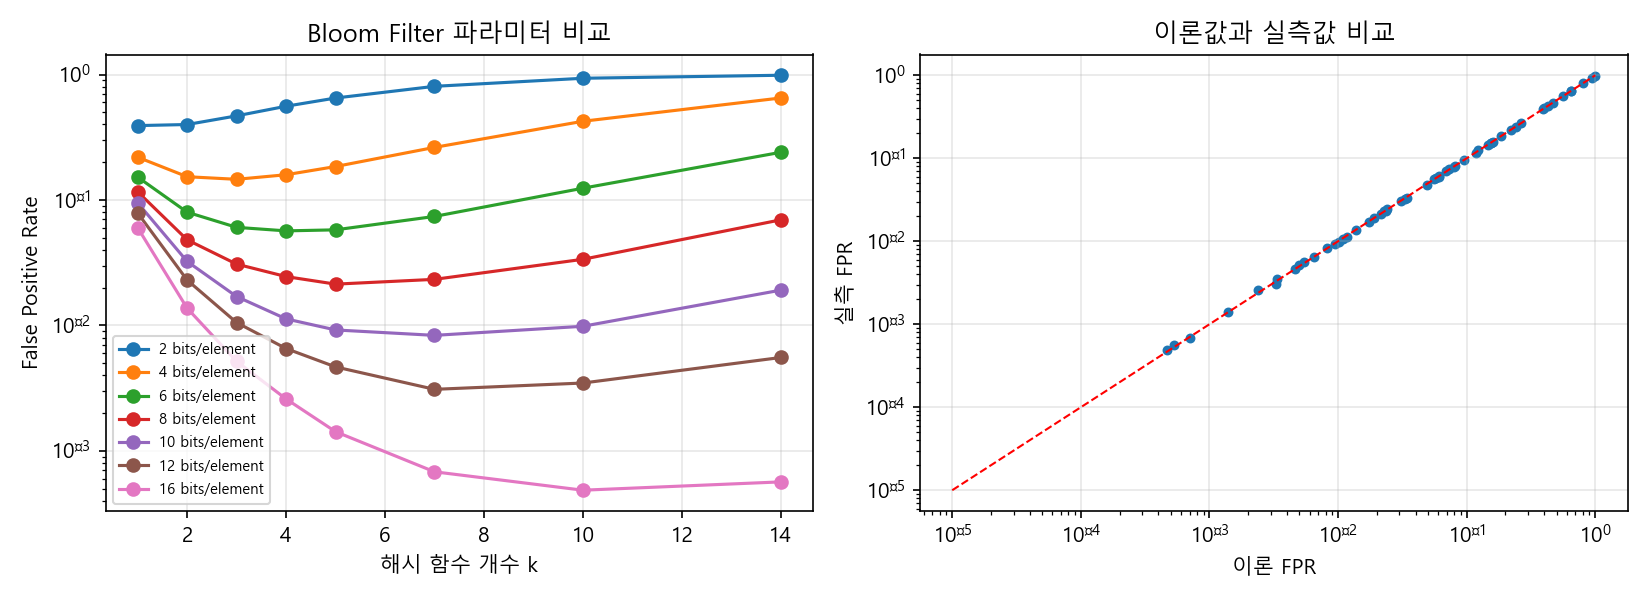
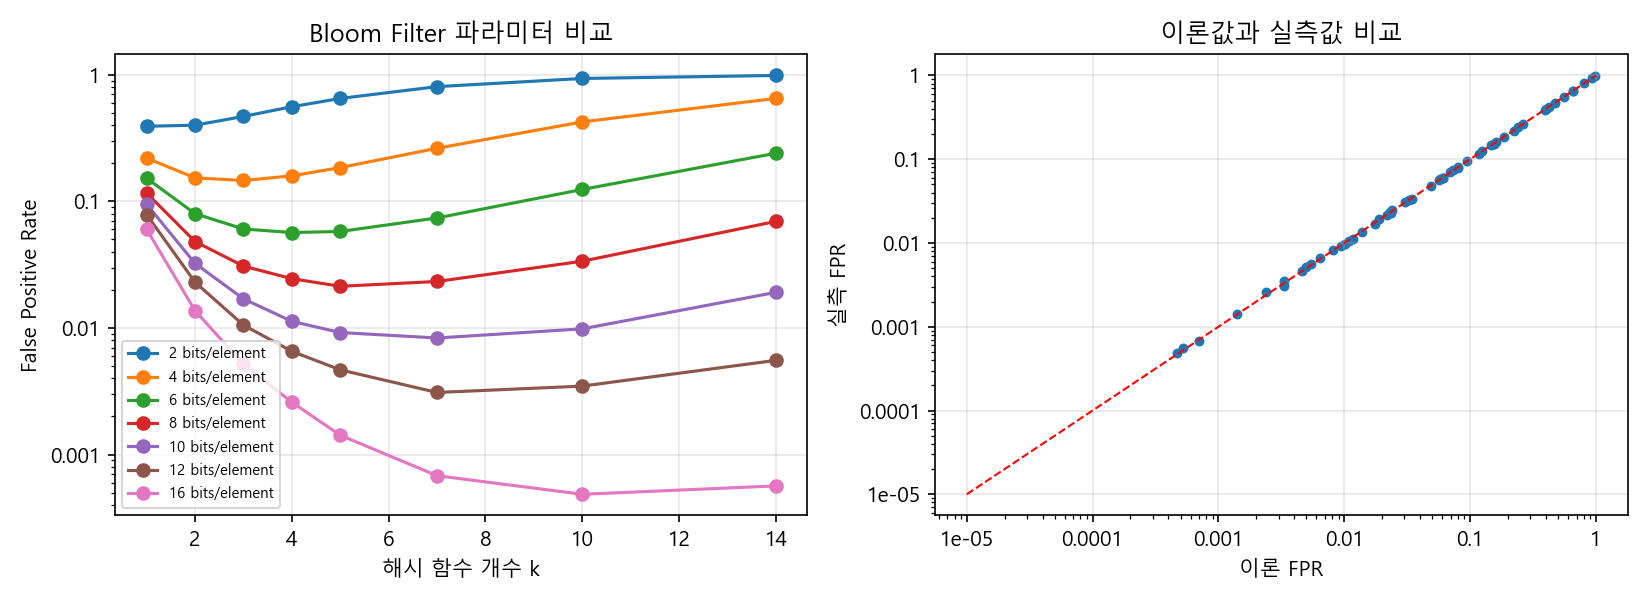
Fix log-axis tick labels in figures (missing minus glyph)

diff --git a/run_experiments.py b/run_experiments.py
@@ -238,6 +238,17 @@ def parameter_sweeps(users, movies, exact_pairs, positives, negatives, movie_tru
     return {"bloom": bloom_rows, "cms": cms_rows, "cms_n_keys": len(movie_ids)}
 
 
+def plain_log_ticks(fig):
+    """Log-axis tick labels as plain numbers (mathtext needs a U+2212 glyph that Korean fonts lack)."""
+    from matplotlib.ticker import FuncFormatter, NullFormatter
+
+    for axis_obj in fig.axes:
+        for axis, scale in ((axis_obj.xaxis, axis_obj.get_xscale()), (axis_obj.yaxis, axis_obj.get_yscale())):
+            if scale == "log":
+                axis.set_major_formatter(FuncFormatter(lambda value, _: f"{value:g}"))
+                axis.set_minor_formatter(NullFormatter())
+
+
 def figures(representative, sweeps):
     import matplotlib
 
@@ -280,6 +291,7 @@ def figures(representative, sweeps):
     axes[1].set_ylabel("실측 FPR")
     axes[1].set_title("이론값과 실측값 비교")
     axes[1].grid(alpha=0.3)
+    plain_log_ticks(fig)
     fig.tight_layout()
     fig.savefig(os.path.join(OUT, "fig_bloom.png"), dpi=150)
     plt.close(fig)
@@ -317,6 +329,7 @@ def figures(representative, sweeps):
     axes[2].set_title("메모리-정확도 trade-off")
     axes[2].grid(alpha=0.3)
     axes[2].legend(fontsize=7)
+    plain_log_ticks(fig)
     fig.tight_layout()
     fig.savefig(os.path.join(OUT, "fig_cms.png"), dpi=150)
     plt.close(fig)
@@ -343,6 +356,7 @@ def figures(representative, sweeps):
     axes[1].set_title("처리량")
     axes[1].legend()
     axes[1].grid(alpha=0.3, axis="y")
+    plain_log_ticks(fig)
     fig.tight_layout()
     fig.savefig(os.path.join(OUT, "fig_headline.png"), dpi=150)
     plt.close(fig)
